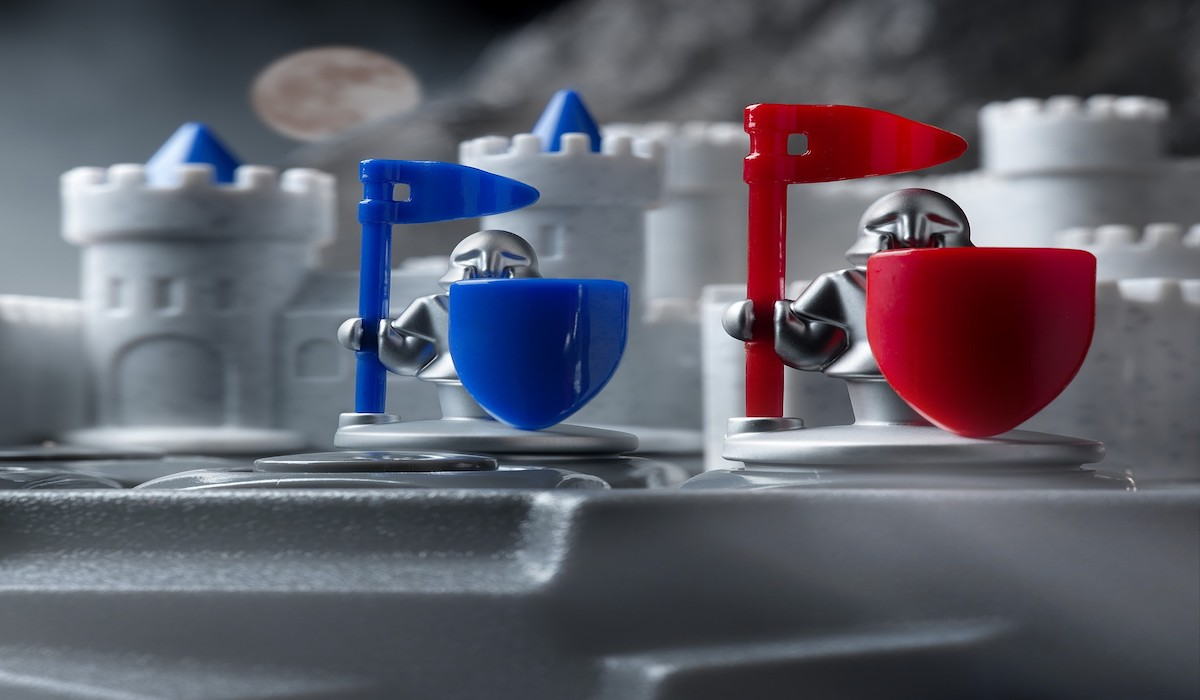
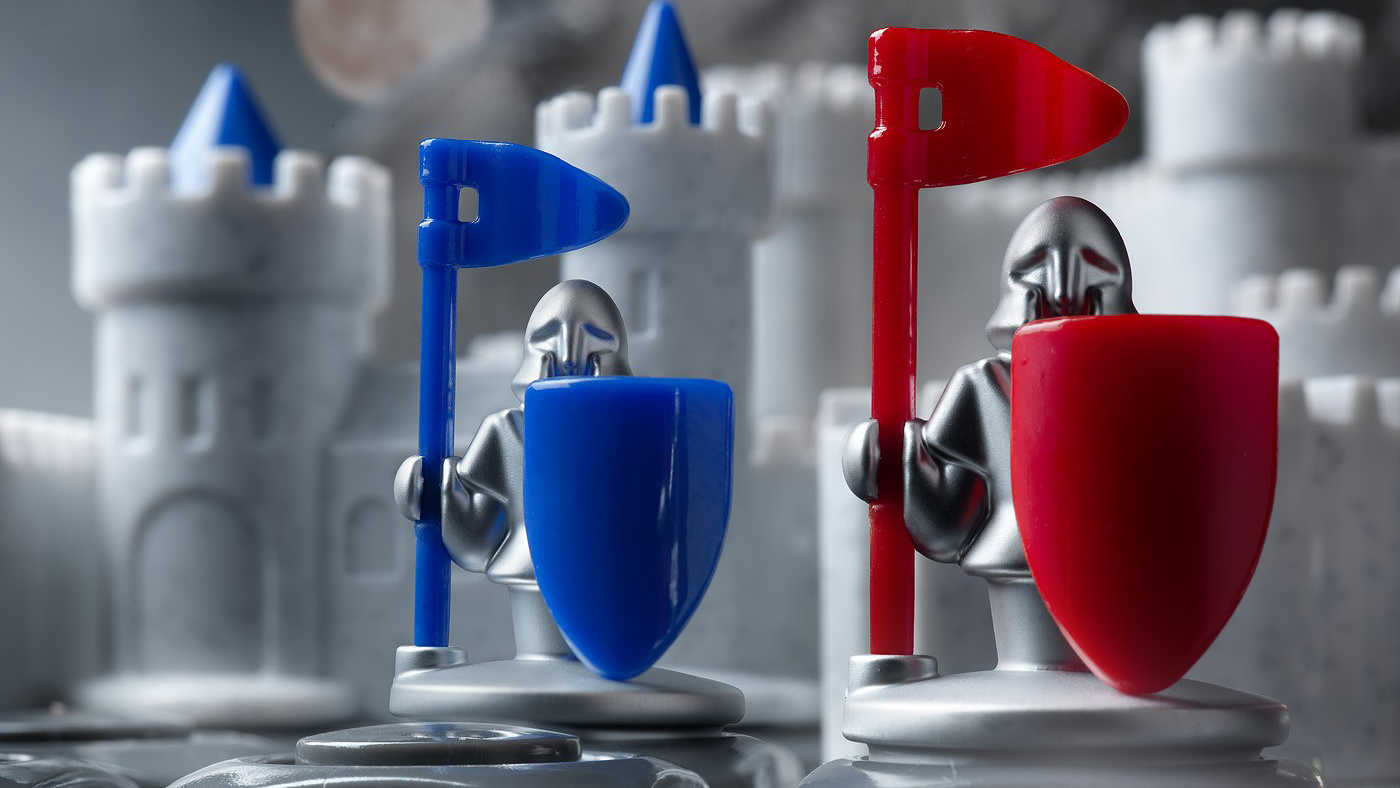
Design changes
Added a new background picture and changed the minimum resolution to 1024x576 to fit 16:9 ratio

diff --git a/src/GameView.java b/src/GameView.java
@@ -65,7 +65,7 @@ public class GameView extends JFrame implements ActionListener {
 		}));
 		card.setLayout(cardLayout = new CardLayout());
 
-		setMinimumSize(new Dimension(800, 600));
+		setMinimumSize(new Dimension(1024, 576));
 		managers[0] = new GameManager(this, 1, cardLayout, card);
 		managers[1] = new GameManager(this, 2, cardLayout, card);
 
